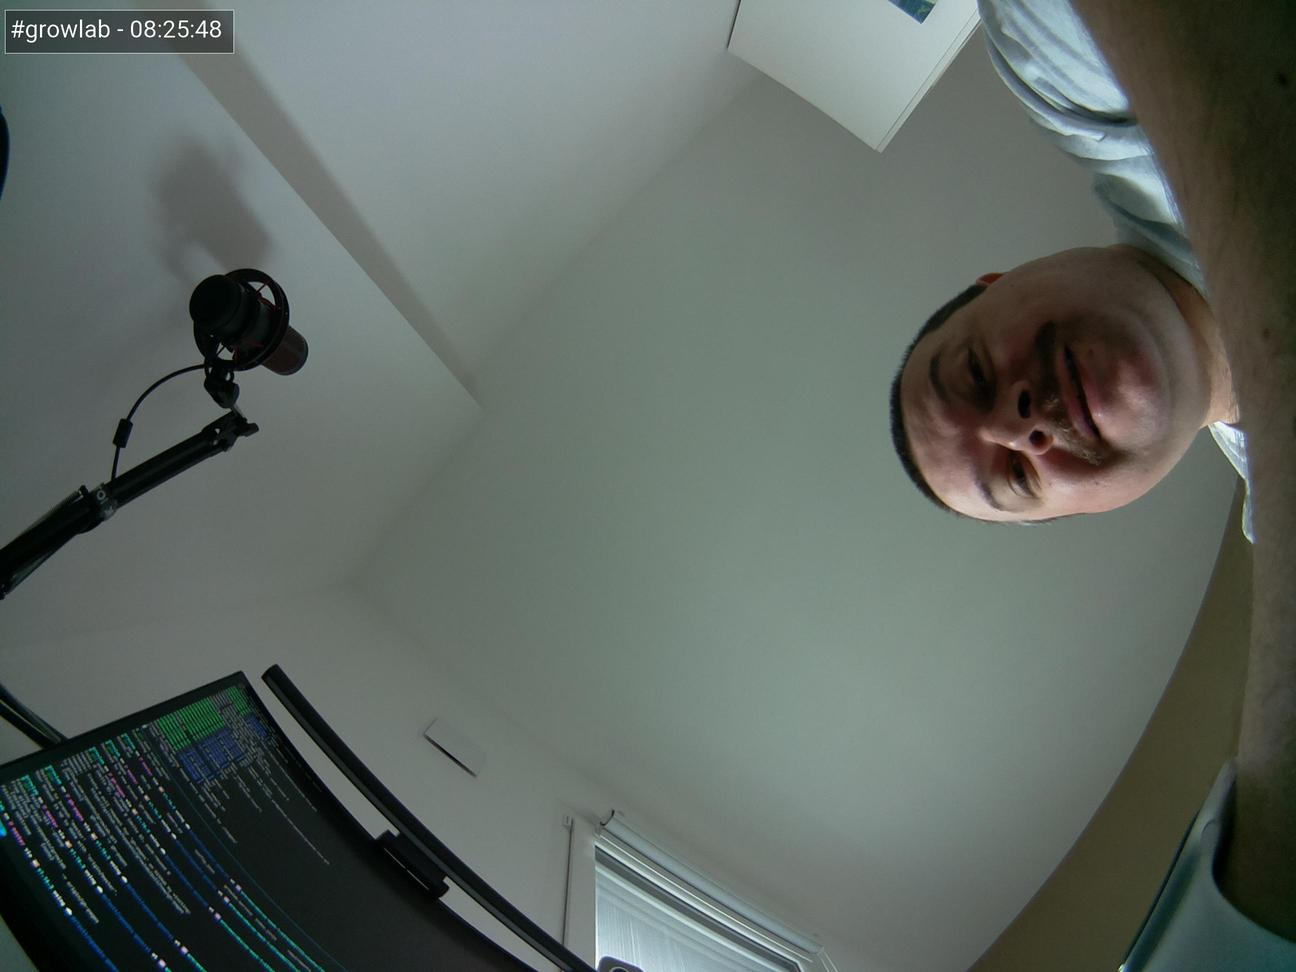
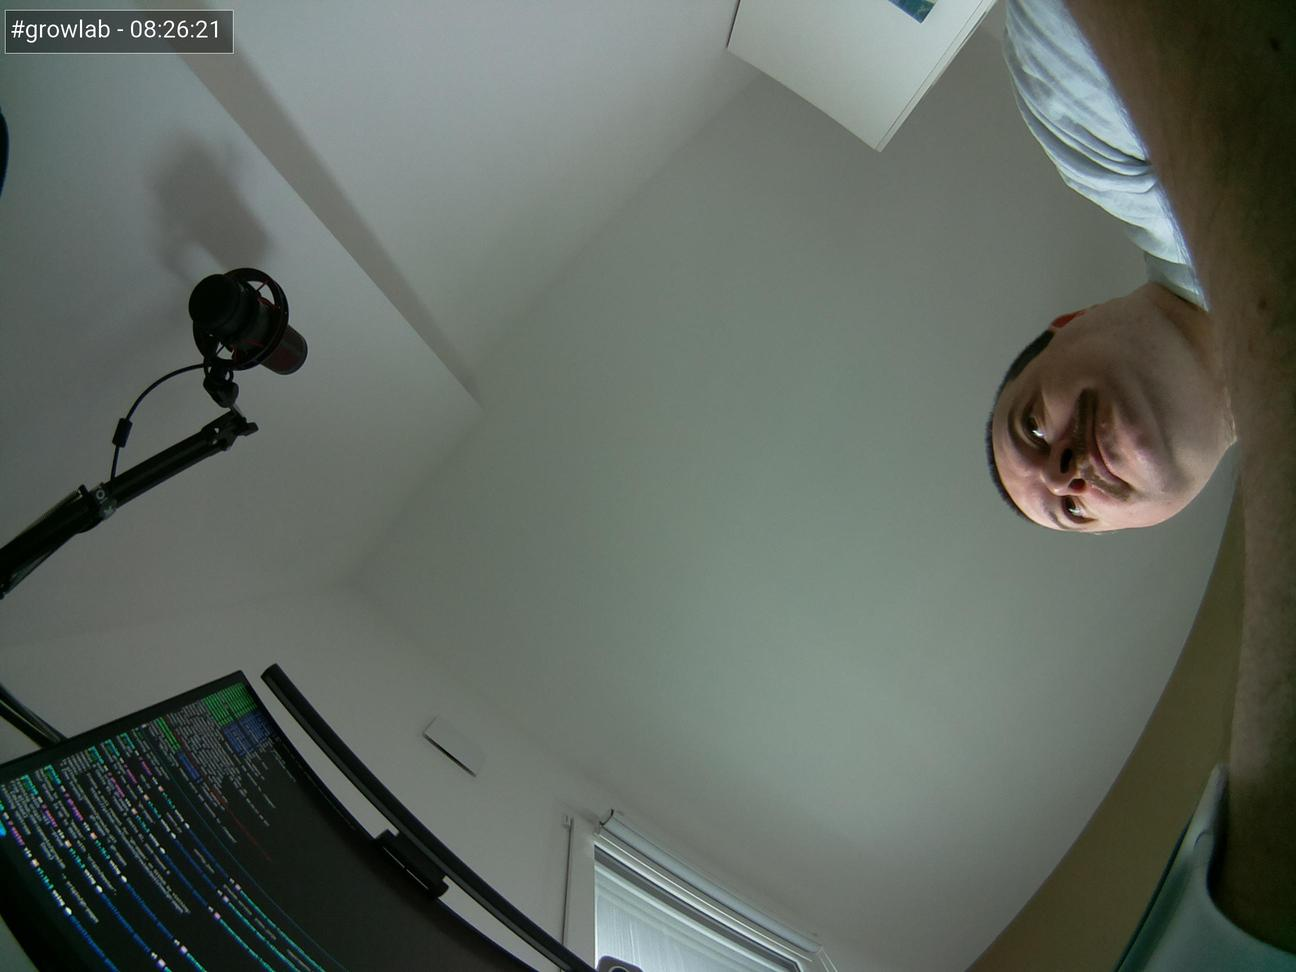
Update images at Fri 28 May 2021 08:26:29 AM BST

diff --git a/docs/index.html b/docs/index.html
@@ -47,7 +47,7 @@
                         <tbody>
                             <tr>
                                 <td>Time</td>
-                                <td>08:25:48</td>
+                                <td>08:26:21</td>
                             </tr>
                             <tr>
                                 <td>Temperature</td>
@@ -67,7 +67,7 @@
 
                 <h5>Latest image</h5>
                 <div style="width: 85%;">
-                            <img class="figure-img img-fluid rounded" src="./preview.jpg?uid=1622186756.896199">
+                            <img class="figure-img img-fluid rounded" src="./preview.jpg?uid=1622186789.603428">
                 </div>
             </div>
         </div>
